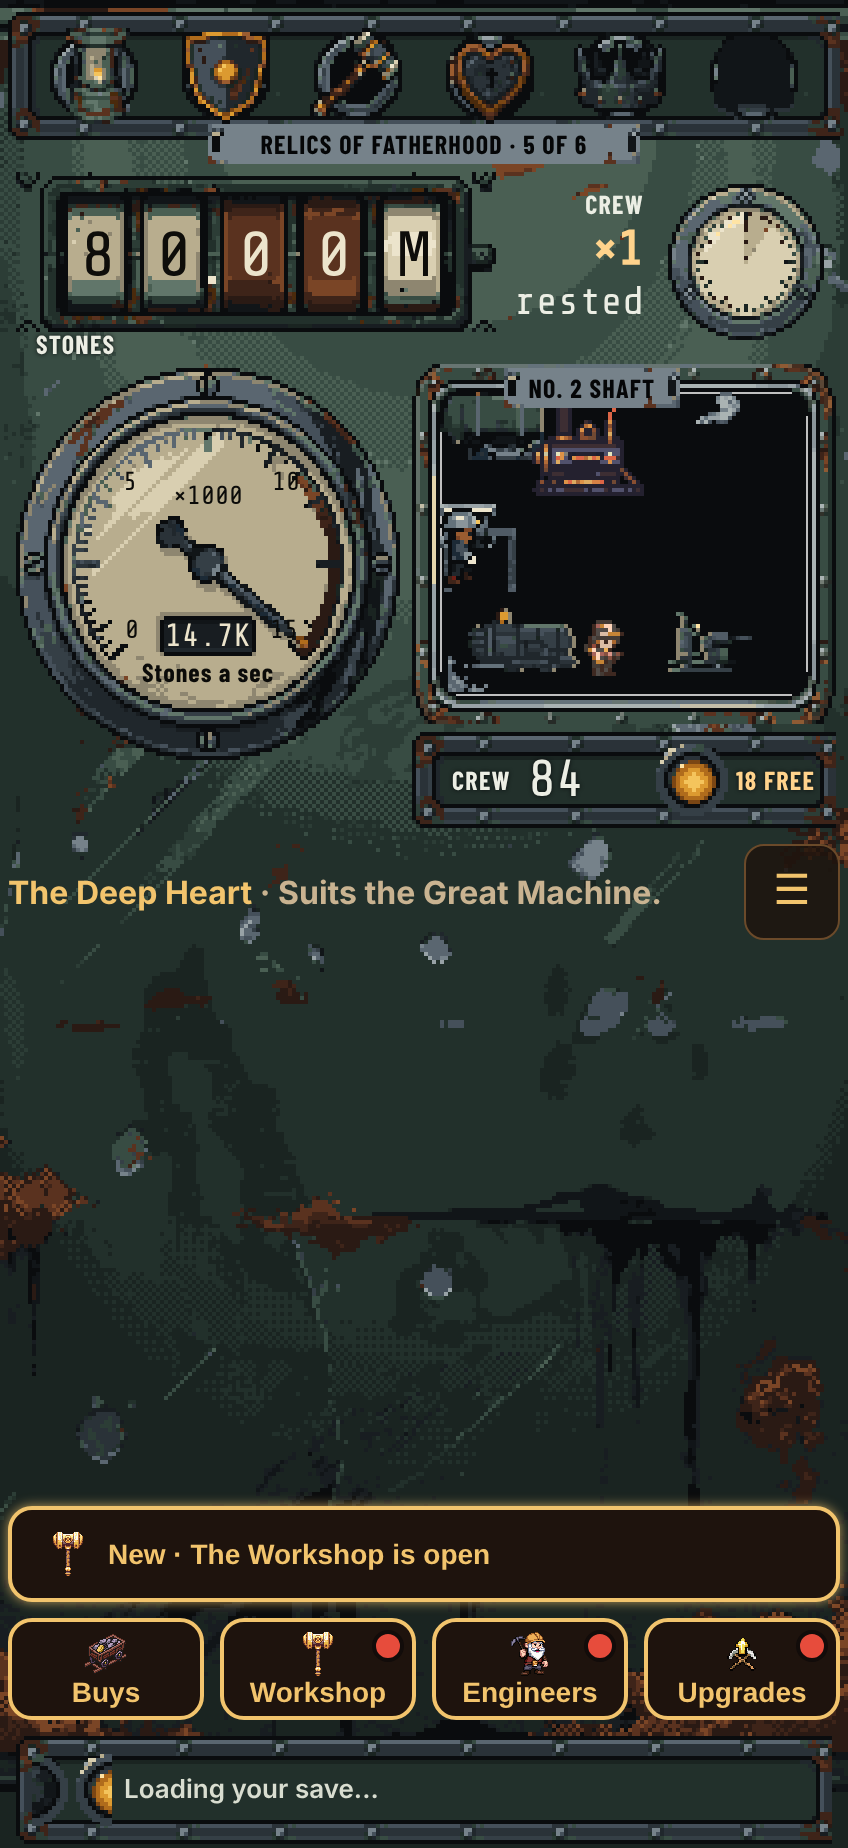
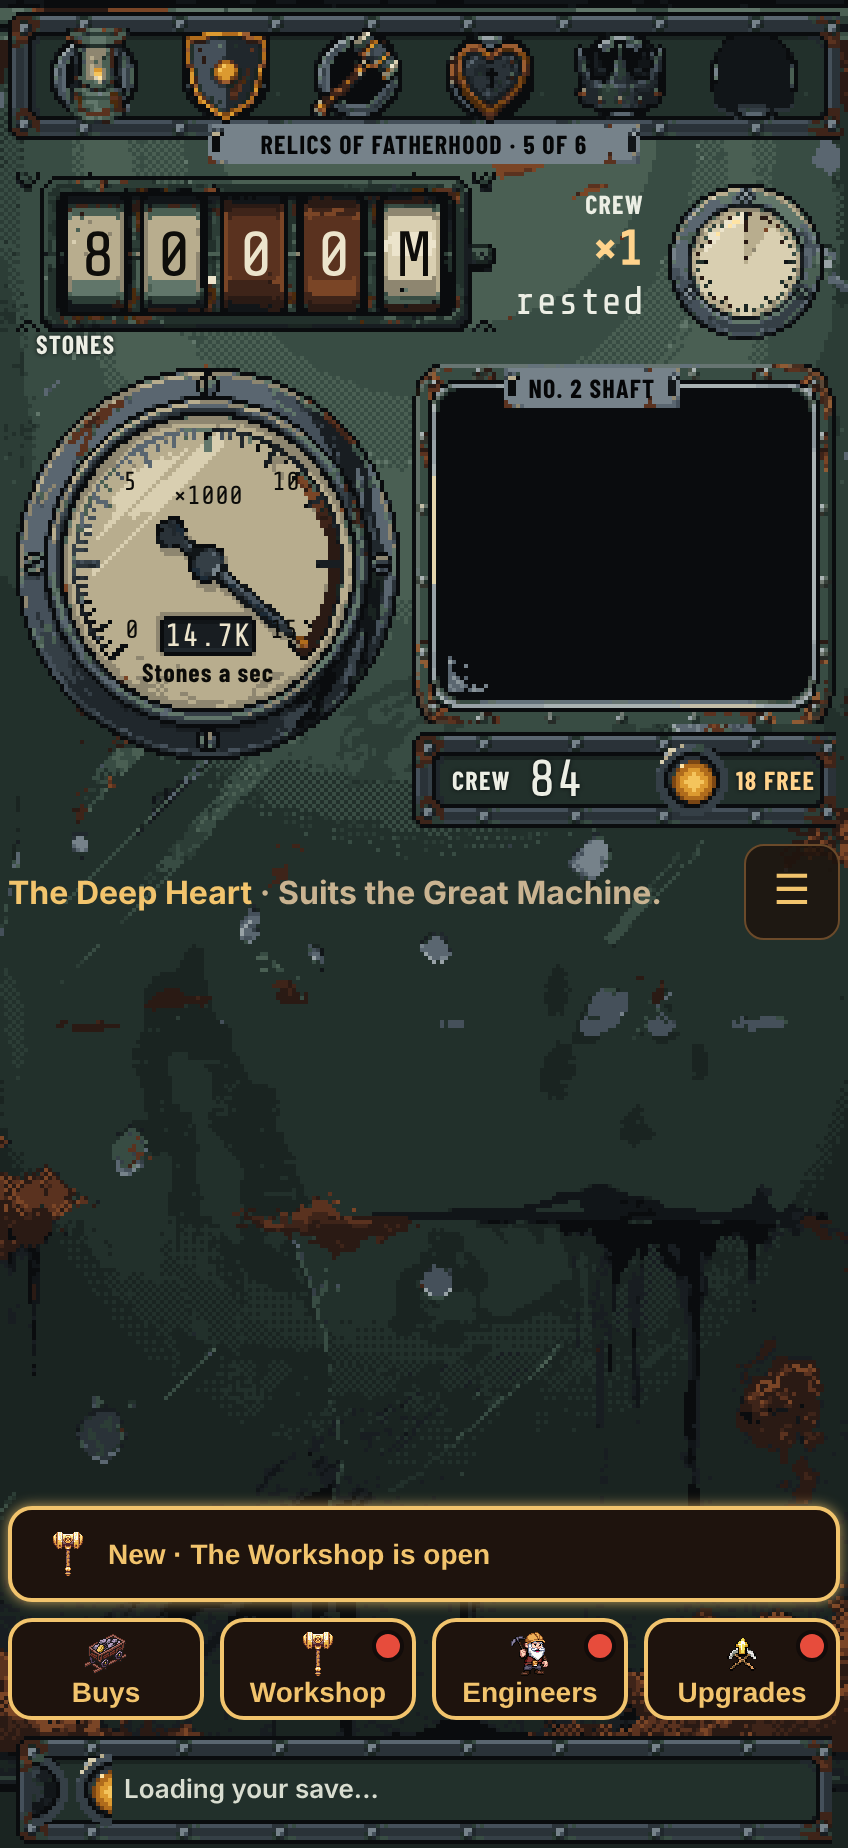
The mine window is only its frame and glass until the save is in, and the review's minors are fixed (#371)
Claude-Session: https://claude.ai/code/session_011RgeWsS7EcGfk9opPt3V2W

Changed region(s): [[0.5212, 0.2159, 0.7665, 0.3701], [0.8278, 0.2159, 0.8892, 0.2468], [0.7972, 0.3393, 0.8585, 0.3701]]

diff --git a/src/board-window.test.ts b/src/board-window.test.ts
@@ -8,6 +8,7 @@ import {
   type MineWindow,
 } from "./board-window";
 import { mineView, type WindowScene } from "./mine-window";
+import { WINDOW_SCENE_PARTS } from "./ui-audit-measure";
 
 const motion = (reduce: boolean): void => {
   vi.stubGlobal(
@@ -101,6 +102,70 @@ describe("createMineWindow", () => {
     expect(win.dig.contains(win.vein)).toBe(false);
     expect(win.root.contains(win.vein)).toBe(true);
     expect(el(win, ".board-legacy").contains(badge)).toBe(true);
+  });
+
+  it("before the first render it is only the frame and the glass: no view, machine, kid or run", () => {
+    motion(false);
+    const { win } = make();
+    /** Shown only if neither it nor anything between it and the window is hidden. */
+    const visible = (selector: string): boolean => {
+      for (
+        let node: HTMLElement | null = el(win, selector);
+        node !== null && node !== win.root;
+        node = node.parentElement
+      ) {
+        if (node.hidden) return false;
+      }
+      return true;
+    };
+    // the browser checks' list, and the two puffs that are never up before a dig
+    const SCENE_PARTS = [
+      ...WINDOW_SCENE_PARTS,
+      ".board-window-fill",
+      ".board-dig-dust",
+    ];
+    for (const part of SCENE_PARTS) {
+      expect({ part, visible: visible(part) }).toEqual({
+        part,
+        visible: false,
+      });
+    }
+    expect(visible(".board-window-frame")).toBe(true);
+    expect(visible(".board-window-glass")).toBe(true);
+    expect(visible(".board-window-tag")).toBe(true);
+    // a tick before the save loads draws nothing either
+    win.tick(0.1);
+    expect(visible(".board-window-run")).toBe(false);
+    expect(visible(".board-window-drill")).toBe(false);
+
+    // the first render puts the shaft, the run and today's tarp on the view
+    win.render(SCENE);
+    for (const part of [
+      ".board-window-art",
+      ".board-window-sheave",
+      ".board-window-steam",
+      ".board-window-tarp",
+      ".board-window-run",
+      ".board-window-tub",
+      ".board-window-miner",
+      ".board-window-cage",
+    ]) {
+      expect({ part, visible: visible(part) }).toEqual({
+        part,
+        visible: true,
+      });
+    }
+    for (const part of [
+      ".board-window-machine",
+      ".board-window-drill",
+      ".board-window-borer",
+      ".board-window-kid",
+    ]) {
+      expect({ part, visible: visible(part) }).toEqual({
+        part,
+        visible: false,
+      });
+    }
   });
 
   it("shows the band's view and swaps it when the band changes", () => {
@@ -463,6 +528,9 @@ describe("the window's stacking", () => {
     ).toEqual(["board-window", "golden-vein", "board-legacy"]);
     expect(zIndex(win, ".golden-vein")).toBe("2");
     expect(zIndex(win, ".board-legacy")).toBe("3");
+    // and the window isolates them, so the vein's 2 and the plate's 3 never reach the board's
+    // sheets, notes or save line
+    expect(getComputedStyle(win.root).isolation).toBe("isolate");
   });
 });
 

diff --git a/src/float-text.test.ts b/src/float-text.test.ts
@@ -1,0 +1,42 @@
+// @vitest-environment happy-dom
+import { afterEach, describe, expect, it, vi } from "vitest";
+import { reducedMotion } from "./float-text";
+
+afterEach(() => {
+  vi.unstubAllGlobals();
+});
+
+/** A matchMedia that counts its calls and answers from a live list. */
+const counted = (list: { matches: boolean }) => {
+  const matchMedia = vi.fn((query: string) => {
+    expect(query).toBe("(prefers-reduced-motion: reduce)");
+    return list as MediaQueryList;
+  });
+  vi.stubGlobal("matchMedia", matchMedia);
+  return matchMedia;
+};
+
+describe("reducedMotion", () => {
+  it("asks matchMedia once and then reads the list's live answer", () => {
+    const list = { matches: false };
+    const matchMedia = counted(list);
+    expect(reducedMotion()).toBe(false);
+    expect(reducedMotion()).toBe(false);
+    list.matches = true;
+    expect(reducedMotion()).toBe(true);
+    expect(matchMedia).toHaveBeenCalledTimes(1);
+  });
+
+  it("asks again when matchMedia is replaced, as a test's stub does", () => {
+    counted({ matches: false });
+    expect(reducedMotion()).toBe(false);
+    const next = counted({ matches: true });
+    expect(reducedMotion()).toBe(true);
+    expect(next).toHaveBeenCalledTimes(1);
+  });
+
+  it("counts no matchMedia as reduced motion", () => {
+    vi.stubGlobal("matchMedia", undefined);
+    expect(reducedMotion()).toBe(true);
+  });
+});

diff --git a/src/float-text.ts b/src/float-text.ts
@@ -1,9 +1,27 @@
 const FLOAT_MS = 1200;
 
-/** No matchMedia (very old browsers, tests) counts as reduced motion. */
-export const reducedMotion = (): boolean =>
-  typeof window.matchMedia !== "function" ||
-  window.matchMedia("(prefers-reduced-motion: reduce)").matches;
+const REDUCE = "(prefers-reduced-motion: reduce)";
+
+/** The one list the board reads each frame, and the matchMedia that made it. */
+let asked: { readonly by: unknown; readonly list: MediaQueryList } | undefined;
+
+/**
+ * No matchMedia (very old browsers, tests) counts as reduced motion. The list is made once and
+ * its live `.matches` read after, since the board asks every frame; a new matchMedia (a test's
+ * stub) is asked afresh.
+ */
+export const reducedMotion = (): boolean => {
+  if (typeof window.matchMedia !== "function") {
+    return true;
+  }
+  if (asked === undefined || asked.by !== window.matchMedia) {
+    asked = {
+      by: Reflect.get(window, "matchMedia"),
+      list: window.matchMedia(REDUCE),
+    };
+  }
+  return asked.list.matches;
+};
 
 /**
  * A short-lived number that drifts up and fades; skipped for reduced motion.

diff --git a/src/board-window.ts b/src/board-window.ts
@@ -225,7 +225,25 @@ export function createMineWindow({
 
   root.append(dig, vein, plate);
 
-  for (const el of [dust, plus, fill, borerDust, caveIn]) {
+  // Until the save has loaded there is no scene: the window is its frame and glass on the dark,
+  // so nothing unearned shows while "Loading your save..." is up. The first render puts the view
+  // on, and paint() shows each machine only once it is owned.
+  const shaft = [art, sheave, steam, run];
+  for (const el of [
+    ...shaft,
+    machine,
+    drill,
+    tarp,
+    borer,
+    borerDust,
+    kid,
+    tub,
+    miner,
+    caveIn,
+    fill,
+    dust,
+    plus,
+  ]) {
     el.hidden = true;
   }
 
@@ -346,6 +364,11 @@ export function createMineWindow({
   });
 
   const render = (next: WindowScene): void => {
+    if (scene === undefined) {
+      for (const el of shaft) {
+        el.hidden = false;
+      }
+    }
     if (scene?.band !== next.band) {
       root.dataset.band = next.band;
       art.src = mineView(next.band);

diff --git a/src/mountain-screen.test.ts b/src/mountain-screen.test.ts
@@ -2027,9 +2027,18 @@ describe("the control board (#370)", () => {
       expect(screen.text(".board-note.on .vein-note")).toBe(
         "Golden vein! +50 stones",
       );
-      expect(
-        screen.root.querySelector(".vein-note")?.getAttribute("aria-live"),
-      ).toBe("polite");
+      // Announced once: by the board note's status, not again by the words inside it.
+      const words = screen.root.querySelector(".vein-note");
+      const live: string[] = [];
+      for (let at = words; at !== null; at = at.parentElement) {
+        if (
+          at.hasAttribute("aria-live") ||
+          at.getAttribute("role") === "status"
+        ) {
+          live.push(at.classList[0] ?? "");
+        }
+      }
+      expect(live).toEqual(["board-note"]);
       screen.root.remove();
     } finally {
       vi.useRealTimers();

diff --git a/src/ui-audit-measure.ts b/src/ui-audit-measure.ts
@@ -126,3 +126,27 @@ function channel(value: number): number {
   const scaled = value / 255;
   return scaled <= 0.04045 ? scaled / 12.92 : ((scaled + 0.055) / 1.055) ** 2.4;
 }
+
+/**
+ * The mine window's parts drawn from the save (#371). While a signed-in save
+ * loads, none of them may show: the window is its frame and glass alone.
+ */
+export const WINDOW_SCENE_PARTS = [
+  ".board-window-art",
+  ".board-window-sheave",
+  ".board-window-steam",
+  ".board-window-machine",
+  ".board-window-drill",
+  ".board-window-tarp",
+  ".board-window-borer",
+  ".board-window-borer-dust",
+  ".board-window-kid",
+  ".board-window-run",
+  ".board-window-tub",
+  ".board-window-miner",
+  ".board-window-cage",
+  ".board-window-cave-in",
+  ".board-dig-plus",
+  ".golden-vein",
+  ".board-legacy",
+] as const;

diff --git a/src/mountain-screen.ts b/src/mountain-screen.ts
@@ -200,10 +200,11 @@ export function mountMountainScreen({
     veinGapScale(view.mountain, hasRelic(view.mountain, "lantern"), now());
 
   // The vein's note and the quiet away line show in the board note under the
-  // window (#371); between shows the note waits in the park below.
+  // window (#371); between shows the note waits in the hidden park below. The
+  // board note's status announces them, so the words carry no live region of
+  // their own and are read once.
   const veinNote = document.createElement("p");
   veinNote.className = "vein-note";
-  veinNote.setAttribute("aria-live", "polite");
 
   // The countdowns running now, one per line: the body of the Running now
   // note the boost dial opens (#370). The engineers' trips land here too.

diff --git a/src/board.css b/src/board.css
@@ -925,6 +925,9 @@ body {
    background-position-x from board-window.ts. */
 .board-mine {
   position: relative;
+  /* Its own stacking context: the vein (2) and the Legacy plate (3) order only over the window,
+     never against the board's sheets, notes or save line. */
+  isolation: isolate;
   width: calc(var(--art) * 106);
   height: calc(var(--art) * 90);
 }
@@ -1046,7 +1049,6 @@ body {
    stacking context: its tub (1) and miner (2) order only against each other
    and the cage, under the cave-in, the puffs, "+N", the glass and the frame. */
 .board-window-view > .board-window-run {
-  /* Its own stacking context, so the tub and miner stay under the later layers. */
   z-index: 0;
   top: calc(var(--art) * 28);
   width: calc(var(--art) * 92);

diff --git a/docs/ui-audit.md b/docs/ui-audit.md
@@ -46,7 +46,7 @@ Bars used below:
 | Start over confirm       | [shot](ui-audit/start-over-confirm-424x924.png)     | Title is `Start over?`, the one question mark. A second sheet on top of the menu.                                                                                                                                                                                                                                                                                                                                                                                                                                                   |
 | Save: sign in            | [shot](ui-audit/save-status-unsigned-424x924.png)   | The save line reads `Sign in to save` at 13px; a tap opens the drawer with Sign in.                                                                                                                                                                                                                                                                                                                                                                                                                                                 |
 | Save: this device        | [shot](ui-audit/save-status-session-424x924.png)    | Save line: `Saved on this device`.                                                                                                                                                                                                                                                                                                                                                                                                                                                                                                  |
-| Save: loading            | [shot](ui-audit/save-status-loading-424x924.png)    | Save line: `Loading your save...`, the lamp blinking.                                                                                                                                                                                                                                                                                                                                                                                                                                                                               |
+| Save: loading            | [shot](ui-audit/save-status-loading-424x924.png)    | Save line: `Loading your save...`, the lamp blinking. The mine window is its frame and glass on the dark until the save is in: no view, machine, kid or run.                                                                                                                                                                                                                                                                                                                                                                        |
 | Save: account            | [shot](ui-audit/save-status-account-424x924.png)    | Save line: `Saved to your account`.                                                                                                                                                                                                                                                                                                                                                                                                                                                                                                 |
 | Save: unreachable        | [shot](ui-audit/save-status-error-424x924.png)      | Save line: `Couldn't reach your save · Kept on this phone · Details` in 408px at 13px. Honest, not a scold.                                                                                                                                                                                                                                                                                                                                                                                                                         |
 | Save drawer              | [shot](ui-audit/save-drawer-error-424x924.png)      | The save line opens its drawer over the board; the line stays visible under it. Account, on this phone, last try, `Close` and `Try again`.                                                                                                                                                                                                                                                                                                                                                                                          |

diff --git a/docs/DESIGN.md b/docs/DESIGN.md
@@ -88,7 +88,7 @@ Old saves are migrated, not wiped: dug cells count as stones already mined out o
 
 ## UI direction
 
-- The mine window is the tap target (#371): a 212×180 window down No. 2 Shaft, at the right of the gauge row. A tap digs exactly tap power and shows "+N" over a dust puff under the finger; a keyboard Enter puffs at the upper face. Fat finger, touch first.
+- The mine window is the tap target (#371): a 212×180 window down No. 2 Shaft, at the right of the gauge row. A tap digs exactly tap power and shows "+N" over a dust puff under the finger; a keyboard Enter puffs at the upper face. While a signed-in save loads, the window is only its frame and dark glass, so nothing unearned shows. Fat finger, touch first.
 - The game sits on a control board (#370): a 424×924 enamel panel of PixelLab art at exactly 2×, scaled down as a whole to fit a smaller screen or a PC window, inside the phone's safe area. Under the board's top sits the gauge row (#371, 176 to 414px): the output gauge on the left, the mine window at the top right and the crew plate under it. Today's layer line and ☰ menu sit at the column's top (422px), and the teach note and bottom bar at its foot, ending 8px above the save line.
 - The board's top is the relic plate and the stock row. The relic plate is six sockets: found relics lit, the next one dark, the rest empty. A tap on a socket shows a short note in the shelf's words (the found relic's virtue, or the vague tease and "Next · …" hint), ending in a Relic shelf key that opens the relic shelf. A note with a key stays up until the key is used, a tap lands elsewhere, or Escape. An enamel tag under the sockets reads "Relics of Fatherhood · 2 of 6"; it is a label, not a button.
 - The stock row is the odometer and the boost dial. The odometer's five drums show the pocket: the whole number under 100,000 ("41,380"), then four figures and a unit ("412.4K"), rounding down, ">999T" at the top. The drums roll in hard steps. A buy shows a short "−5,868" beside the Stones legend. The boost dial shows the crew timer the crew is running at (Overtime, axle grease or a blasting charge) with its multiplier and time left, or "Crew ×1 rested" when none runs. A tap on the dial shows the Running now note: every countdown running, one per line, or "Nothing running". Stones left in the mountain, the materials, and the next relic live in the ☰ menu's ledger.

diff --git a/docs/ARCHITECTURE.md b/docs/ARCHITECTURE.md
@@ -104,8 +104,11 @@ page is the map, plus the rules that keep it that way.
    and the Legacy plate; `runBoardLoop` steps it and the needle once a frame,
    capped at 0.1s). The window's only input is a `WindowScene` built by
    `windowScene(mountain, trouble)`; it calls `onDig` and `onVein` and never
-   writes the mountain. `reducedMotion()` in `float-text` holds the window
-   and the needle still.
+   writes the mountain. Until its first render (a signed-in save still
+   loading) the window is its frame and glass on the dark: no view, machine,
+   kid or run. `reducedMotion()` in `float-text` holds the window and the
+   needle still; it makes one `MediaQueryList` and reads its live `.matches`
+   each frame.
 
 ## Findings
 
